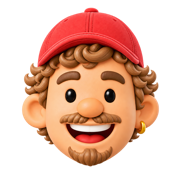
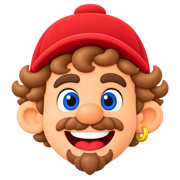
Add pointer-reactive navigation portrait

diff --git a/apps/web/src/components/look-at-pointer.tsx b/apps/web/src/components/look-at-pointer.tsx
@@ -1,0 +1,100 @@
+import { useEffect, useRef } from "react"
+
+type LookAtPointerProps = {
+  className?: string
+  radius?: number
+  src?: string
+  stepDuration?: number
+}
+
+const defaultSource = "/media/brand/gaze-sprite.png"
+const centerFrame = 2
+
+export function LookAtPointer({
+  className,
+  radius = 250,
+  src = defaultSource,
+  stepDuration = 60,
+}: LookAtPointerProps) {
+  const spriteRef = useRef<HTMLSpanElement>(null)
+  const currentFrame = useRef({ x: centerFrame, y: centerFrame })
+  const targetFrame = useRef({ x: centerFrame, y: centerFrame })
+  const stepTimer = useRef<ReturnType<typeof setTimeout> | null>(null)
+
+  useEffect(() => {
+    const pointerIsFine = window.matchMedia("(pointer: fine)")
+
+    function setFrame(x: number, y: number) {
+      if (!spriteRef.current) return
+
+      spriteRef.current.style.setProperty("--gaze-x", `${x * 25}%`)
+      spriteRef.current.style.setProperty("--gaze-y", `${y * 25}%`)
+    }
+
+    function setScale(scale: number) {
+      if (!spriteRef.current) return
+
+      spriteRef.current.style.setProperty("--gaze-scale", scale.toFixed(3))
+    }
+
+    function advanceFrame() {
+      const current = currentFrame.current
+      const target = targetFrame.current
+
+      if (current.x === target.x && current.y === target.y) {
+        stepTimer.current = null
+        return
+      }
+
+      current.x += Math.sign(target.x - current.x)
+      current.y += Math.sign(target.y - current.y)
+      setFrame(current.x, current.y)
+      stepTimer.current = setTimeout(advanceFrame, stepDuration)
+    }
+
+    function setTargetFrame(x: number, y: number) {
+      targetFrame.current = { x, y }
+      if (!stepTimer.current) advanceFrame()
+    }
+
+    function followPointer(event: PointerEvent) {
+      if (!pointerIsFine.matches || !spriteRef.current) return
+
+      const bounds = spriteRef.current.getBoundingClientRect()
+      const x = event.clientX - (bounds.left + bounds.width / 2)
+      const y = event.clientY - (bounds.top + bounds.height / 2)
+      const distance = Math.hypot(x, y)
+
+      if (distance > radius) {
+        setScale(1)
+        setTargetFrame(centerFrame, centerFrame)
+        return
+      }
+
+      const horizontal = Math.max(-1, Math.min(x / radius, 1))
+      const vertical = Math.max(-1, Math.min(y / radius, 1))
+      const scale = 1.025 + (1 - distance / radius) * 0.075
+
+      setScale(scale)
+      setTargetFrame(
+        Math.round((horizontal + 1) * 2),
+        Math.round((vertical + 1) * 2)
+      )
+    }
+
+    window.addEventListener("pointermove", followPointer, { passive: true })
+    return () => {
+      window.removeEventListener("pointermove", followPointer)
+      if (stepTimer.current) clearTimeout(stepTimer.current)
+    }
+  }, [radius, stepDuration])
+
+  return (
+    <span
+      ref={spriteRef}
+      aria-hidden="true"
+      className={["look-at-pointer", className].filter(Boolean).join(" ")}
+      style={{ backgroundImage: `url("${src}")` }}
+    />
+  )
+}

diff --git a/apps/web/src/components/site-shell.tsx b/apps/web/src/components/site-shell.tsx
@@ -3,6 +3,7 @@ import { Link } from "@tanstack/react-router"
 import type { ReactNode } from "react"
 import { profile } from "../content"
 import { CopyEmailButton } from "./copy-email-button"
+import { LookAtPointer } from "./look-at-pointer"
 
 const navigation = [
   { to: "/", label: "Professional" },
@@ -20,7 +21,7 @@ export function SiteShell({ children }: { children: ReactNode }) {
             to="/"
             aria-label={`${profile.name}, home`}
           >
-            <img src="/media/brand/cap-avatar.png" alt="" />
+            <LookAtPointer className="site-gaze" />
           </Link>
           <nav className="site-nav" aria-label="Portfolio sections">
             {navigation.map((item) => (

diff --git a/apps/web/src/styles.css b/apps/web/src/styles.css
@@ -69,10 +69,21 @@ a {
   border-radius: 0.75rem;
   outline: none;
 }
-.site-mark img {
+.look-at-pointer {
+  --gaze-x: 50%;
+  --gaze-y: 50%;
+  --gaze-scale: 1;
+  display: block;
+  flex: none;
+  background-position: var(--gaze-x) var(--gaze-y);
+  background-repeat: no-repeat;
+  background-size: 500% 500%;
+  transform: scale(var(--gaze-scale));
+  transition: transform 180ms ease-out;
+}
+.site-gaze {
   width: 2.5rem;
   height: 2.5rem;
-  object-fit: contain;
 }
 .site-nav {
   display: flex;
